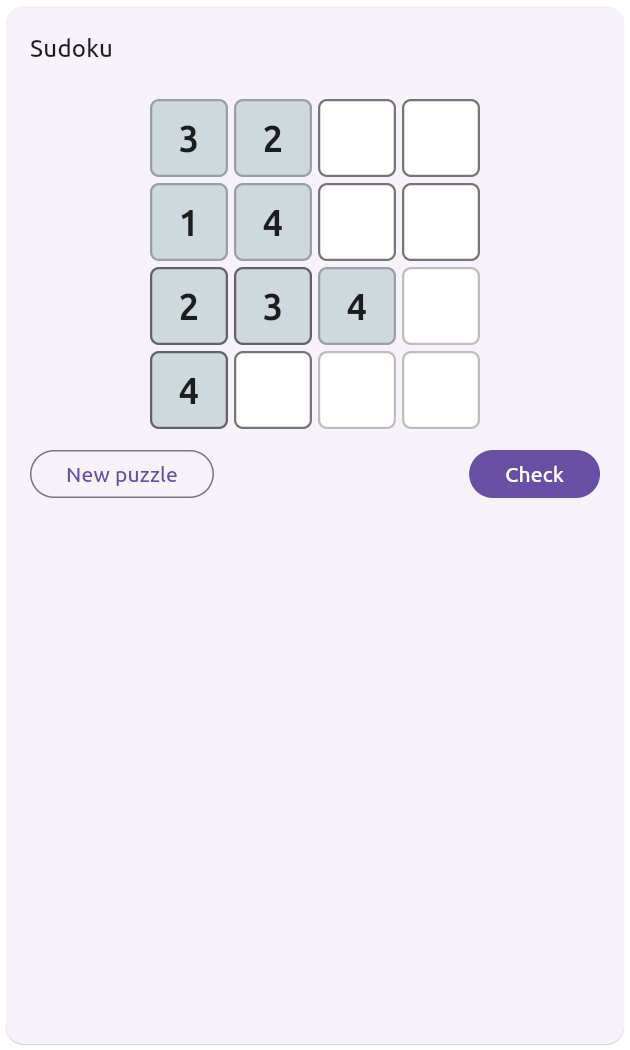
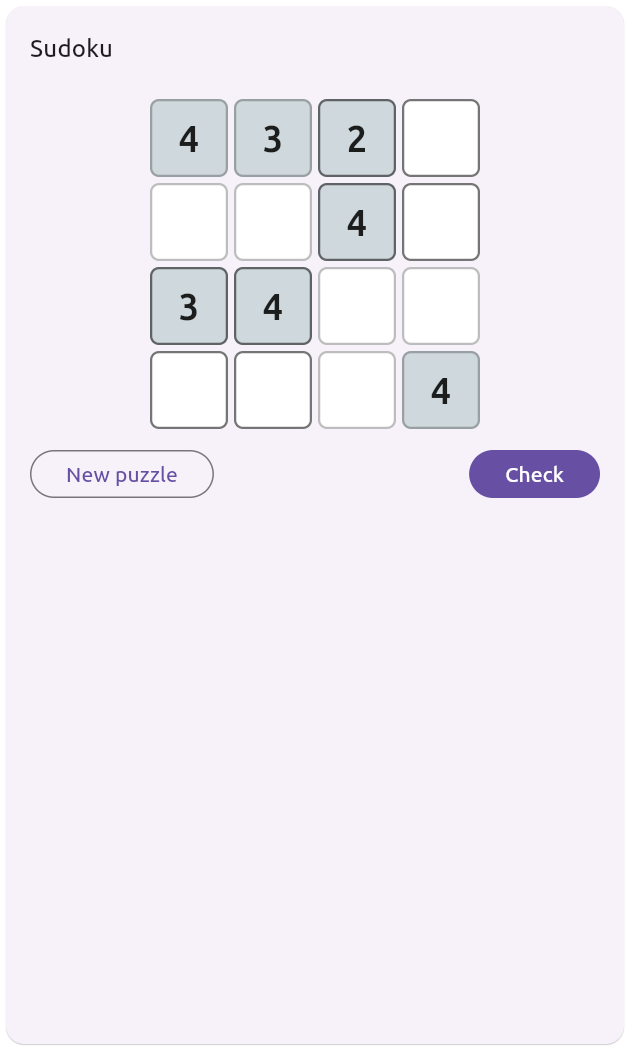
feat(genui): convergence cycle 1 — CONTINUE: Added new LogicSlots widget; many classic logic wi
verify: analyze 0 errs, 00:08 +384: All tests passed!, e2e=pass.

Changed region(s): [[0.2111, 0.0914, 0.6333, 0.3352], [0.6333, 0.3352, 0.7841, 0.4267], [0.2413, 0.3352, 0.3619, 0.4267]]

diff --git a/packages/genui/lib/src/catalog/usecases/logic_slots.dart b/packages/genui/lib/src/catalog/usecases/logic_slots.dart
@@ -1,0 +1,215 @@
+// Copyright 2025 The Flutter Authors.
+// Use of this source code is governed by a BSD-style license that can be
+// found in the LICENSE file.
+
+import 'dart:async';
+import 'dart:math' as math;
+
+import 'package:flutter/material.dart';
+import 'package:json_schema_builder/json_schema_builder.dart';
+
+import '../../model/catalog_item.dart';
+
+/// A slot machine: spin three reels, matching symbols pay out credits.
+final class LogicSlots {
+  static final catalogItem = CatalogItem(
+    name: 'LogicSlots',
+    dataSchema: S.object(
+      description: 'Slot machine with three reels and credit payouts.',
+      properties: {
+        'title': S.string(),
+        'credits': S.integer(description: 'Starting credits.'),
+      },
+      required: ['title'],
+    ),
+    widgetBuilder: (ctx) {
+      final Object? title = (ctx.data as Map)['title'];
+      final Object? credits = (ctx.data as Map)['credits'];
+      return LogicSlotsWidget(
+        title: title is String ? title : 'Slots',
+        credits: credits is int && credits > 0 ? credits : 10,
+      );
+    },
+    exampleData: [
+      () => '''
+[
+ {"id":"root","component":"LogicSlots","title":"Lucky 777","credits":10}
+]''',
+    ],
+  );
+}
+
+/// The symbols that can appear on a reel.
+const List<String> _symbols = ['7', '💎', '🔔', '⭐', '🍒', '🍋'];
+
+/// Payout multiple for three of a kind, per symbol.
+const Map<String, int> _triplePayouts = {
+  '7': 50,
+  '💎': 30,
+  '🔔': 20,
+  '⭐': 15,
+  '🍒': 10,
+  '🍋': 5,
+};
+
+class LogicSlotsWidget extends StatefulWidget {
+  const LogicSlotsWidget({super.key, this.title = 'Slots', this.credits = 10});
+  final String title;
+  final int credits;
+
+  @override
+  State<LogicSlotsWidget> createState() => _LogicSlotsWidgetState();
+}
+
+class _LogicSlotsWidgetState extends State<LogicSlotsWidget> {
+  final math.Random _rng = math.Random();
+  late List<String> _reels;
+  late int _credits;
+  bool _spinning = false;
+  Timer? _timer;
+  int _tick = 0;
+  int? _lastPayout;
+
+  @override
+  void initState() {
+    super.initState();
+    _credits = widget.credits;
+    _reels = [for (var i = 0; i < 3; i++) _randomSymbol()];
+  }
+
+  @override
+  void dispose() {
+    _timer?.cancel();
+    super.dispose();
+  }
+
+  String _randomSymbol() => _symbols[_rng.nextInt(_symbols.length)];
+
+  void _spin() {
+    if (_spinning || _credits <= 0) return;
+    setState(() {
+      _spinning = true;
+      _lastPayout = null;
+      _credits -= 1;
+    });
+    _timer?.cancel();
+    _ticker();
+  }
+
+  /// Advances the reels; after a fixed number of ticks, settles the result.
+  void _ticker() {
+    _timer = Timer.periodic(const Duration(milliseconds: 80), (_) {
+      _tick++;
+      setState(() {
+        for (var i = 0; i < 3; i++) {
+          _reels[i] = _randomSymbol();
+        }
+      });
+      if (_tick >= 10) {
+        _timer?.cancel();
+        _settle();
+      }
+    });
+  }
+
+  void _settle() {
+    final String a = _reels[0];
+    final String b = _reels[1];
+    final String c = _reels[2];
+    int payout;
+    if (a == b && b == c) {
+      payout = _triplePayouts[a] ?? 0;
+    } else if (a == b || a == c || b == c) {
+      payout = 2; // any pair pays 2x.
+    } else {
+      payout = 0;
+    }
+    setState(() {
+      _credits += payout;
+      _lastPayout = payout;
+      _spinning = false;
+      _tick = 0;
+    });
+  }
+
+  bool get _locked => _spinning || _credits <= 0;
+
+  @override
+  Widget build(BuildContext context) {
+    final int? payout = _lastPayout;
+    return Card(
+      child: Padding(
+        padding: const EdgeInsets.all(16),
+        child: Column(
+          crossAxisAlignment: CrossAxisAlignment.start,
+          children: [
+            Text(widget.title, style: Theme.of(context).textTheme.titleMedium),
+            const SizedBox(height: 12),
+            Center(child: _reelRow()),
+            const SizedBox(height: 12),
+            Row(
+              mainAxisAlignment: MainAxisAlignment.spaceBetween,
+              children: [
+                Text('Credits: $_credits',
+                    style: Theme.of(context).textTheme.titleMedium),
+                if (payout != null)
+                  Text(
+                    payout > 0 ? 'You win $payout!' : 'No win',
+                    style: TextStyle(
+                      color: payout > 0 ? Colors.green.shade700 : null,
+                      fontWeight: FontWeight.bold,
+                    ),
+                  ),
+              ],
+            ),
+            const SizedBox(height: 12),
+            Center(
+              child: FilledButton.icon(
+                onPressed: _locked ? null : _spin,
+                icon: const Icon(Icons.casino_outlined),
+                label: Text(_credits <= 0 ? 'Out of credits' : 'Spin (1)'),
+              ),
+            ),
+          ],
+        ),
+      ),
+    );
+  }
+
+  Widget _reelRow() {
+    return Container(
+      padding: const EdgeInsets.symmetric(horizontal: 8, vertical: 4),
+      decoration: BoxDecoration(
+        color: Colors.black87,
+        borderRadius: BorderRadius.circular(12),
+        border: Border.all(color: Colors.amber.shade700, width: 3),
+      ),
+      child: Row(
+        mainAxisSize: MainAxisSize.min,
+        children: [
+          for (final s in _reels)
+            Padding(
+              padding: const EdgeInsets.symmetric(horizontal: 6),
+              child: Container(
+                width: 72,
+                height: 72,
+                alignment: Alignment.center,
+                decoration: BoxDecoration(
+                  color: Colors.white,
+                  borderRadius: BorderRadius.circular(8),
+                ),
+                child: Text(
+                  s,
+                  style: TextStyle(
+                    fontSize: 40,
+                    fontWeight: FontWeight.bold,
+                    color: s == '7' ? Colors.red.shade700 : Colors.black87,
+                  ),
+                ),
+              ),
+            ),
+        ],
+      ),
+    );
+  }
+}

diff --git a/examples/simple_chat/integration_test/capture_screenshots_test.dart b/examples/simple_chat/integration_test/capture_screenshots_test.dart
@@ -30,6 +30,14 @@ import '../../../packages/genui/lib/src/catalog/usecases/logic_otp.dart' as wotp
 import '../../../packages/genui/lib/src/catalog/usecases/logic_wordle.dart' as wwordle;
 // ignore: avoid_relative_lib_imports
 import '../../../packages/genui/lib/src/catalog/usecases/logic_sudoku.dart' as wsudoku;
+// ignore: avoid_relative_lib_imports
+import '../../../packages/genui/lib/src/catalog/usecases/logic_checkers.dart' as wcheckers;
+// ignore: avoid_relative_lib_imports
+import '../../../packages/genui/lib/src/catalog/usecases/logic_yahtzee.dart' as wyahtzee;
+// ignore: avoid_relative_lib_imports
+import '../../../packages/genui/lib/src/catalog/usecases/logic_jigsaw.dart' as wjigsaw;
+// ignore: avoid_relative_lib_imports
+import '../../../packages/genui/lib/src/catalog/usecases/logic_binary_converter.dart' as wbinary;
 
 Future<void> snap(WidgetTester tester, Widget child, String name) async {
   await tester.pumpWidget(MaterialApp(
@@ -77,5 +85,12 @@ void main() {
     await snap(tester, wotp.LogicOtpWidget(expected: '123456'), 'otp');
     await snap(tester, wwordle.LogicWordleWidget(word: 'ADOBE'), 'wordle');
     await snap(tester, wsudoku.LogicSudokuWidget(title: 'Sudoku'), 'sudoku');
+    await snap(tester, wcheckers.LogicCheckersWidget(title: 'Checkers'),
+        'checkers');
+    await snap(tester, wyahtzee.LogicYahtzeeWidget(title: 'Yahtzee'),
+        'yahtzee');
+    await snap(tester, wjigsaw.LogicJigsawWidget(title: 'Jigsaw'), 'jigsaw');
+    await snap(tester, wbinary.LogicBinaryConverterWidget(title: 'Converter'),
+        'binary_converter');
   });
 }

diff --git a/packages/genui/lib/src/catalog/basic_catalog.dart b/packages/genui/lib/src/catalog/basic_catalog.dart
@@ -57,6 +57,7 @@ import 'usecases/logic_minesweeper.dart' as LogicMinesweeper;
 import 'usecases/logic_morse.dart' as LogicMorse;
 import 'usecases/logic_nonogram.dart' as LogicNonogram;
 import 'usecases/logic_sign_up.dart' as LogicSignUp;
+import 'usecases/logic_slots.dart' as LogicSlots;
 import 'usecases/logic_typing_speed.dart' as LogicTypingSpeed;
 import 'usecases/logic_password_meter.dart' as LogicPasswordMeter;
 import 'usecases/logic_otp.dart' as LogicOtp;
@@ -250,6 +251,7 @@ abstract final class BasicCatalogItems {
     LogicOtp.LogicOtp.catalogItem,
     LogicPasswordMeter.LogicPasswordMeter.catalogItem,
     LogicSignUp.LogicSignUp.catalogItem,
+    LogicSlots.LogicSlots.catalogItem,
     LogicTypingSpeed.LogicTypingSpeed.catalogItem,
     LogicBinaryConverter.LogicBinaryConverter.catalogItem,
     LogicCheckers.LogicCheckers.catalogItem,

diff --git a/packages/genui/lib/src/catalog.dart b/packages/genui/lib/src/catalog.dart
@@ -85,6 +85,7 @@ export 'catalog/usecases/logic_login.dart';
 export 'catalog/usecases/logic_otp.dart';
 export 'catalog/usecases/logic_password_meter.dart';
 export 'catalog/usecases/logic_sign_up.dart';
+export 'catalog/usecases/logic_slots.dart';
 export 'catalog/usecases/logic_binary_converter.dart';
 export 'catalog/usecases/logic_checkers.dart';
 export 'catalog/usecases/logic_yahtzee.dart';
